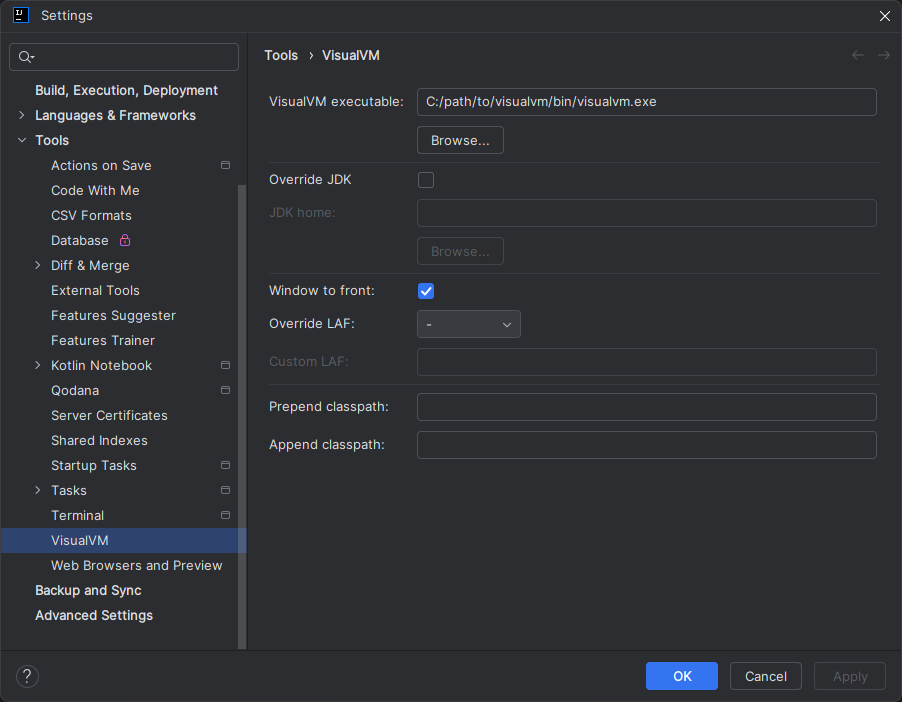
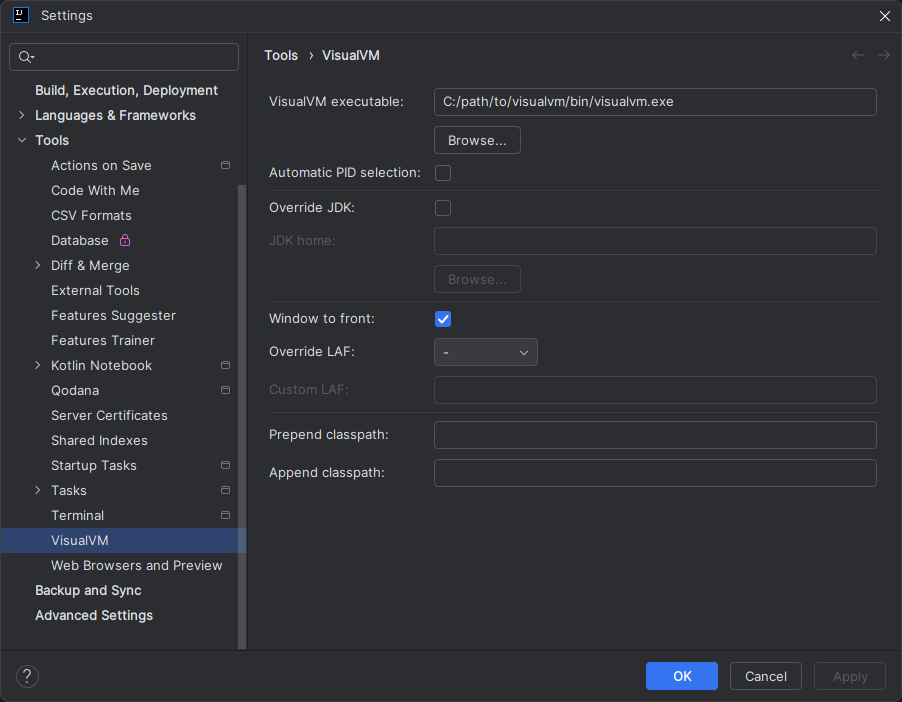
v0.2.1

diff --git a/README.md b/README.md
@@ -37,3 +37,7 @@ When an application is running, the `Run` menu bar offers the following VisualVM
 
 The actions may also be manually added to e.g. debugger menu bar, if so desired.
 The only requirement is that the PID (process ID) is resolvable from the context.
+Automatic PID selection may be turned off in the plugin settings,
+and in such a case a popup menu for PID selection is displayed.
+
+![ManualPIDSelection](manual-pid-selection.png)
